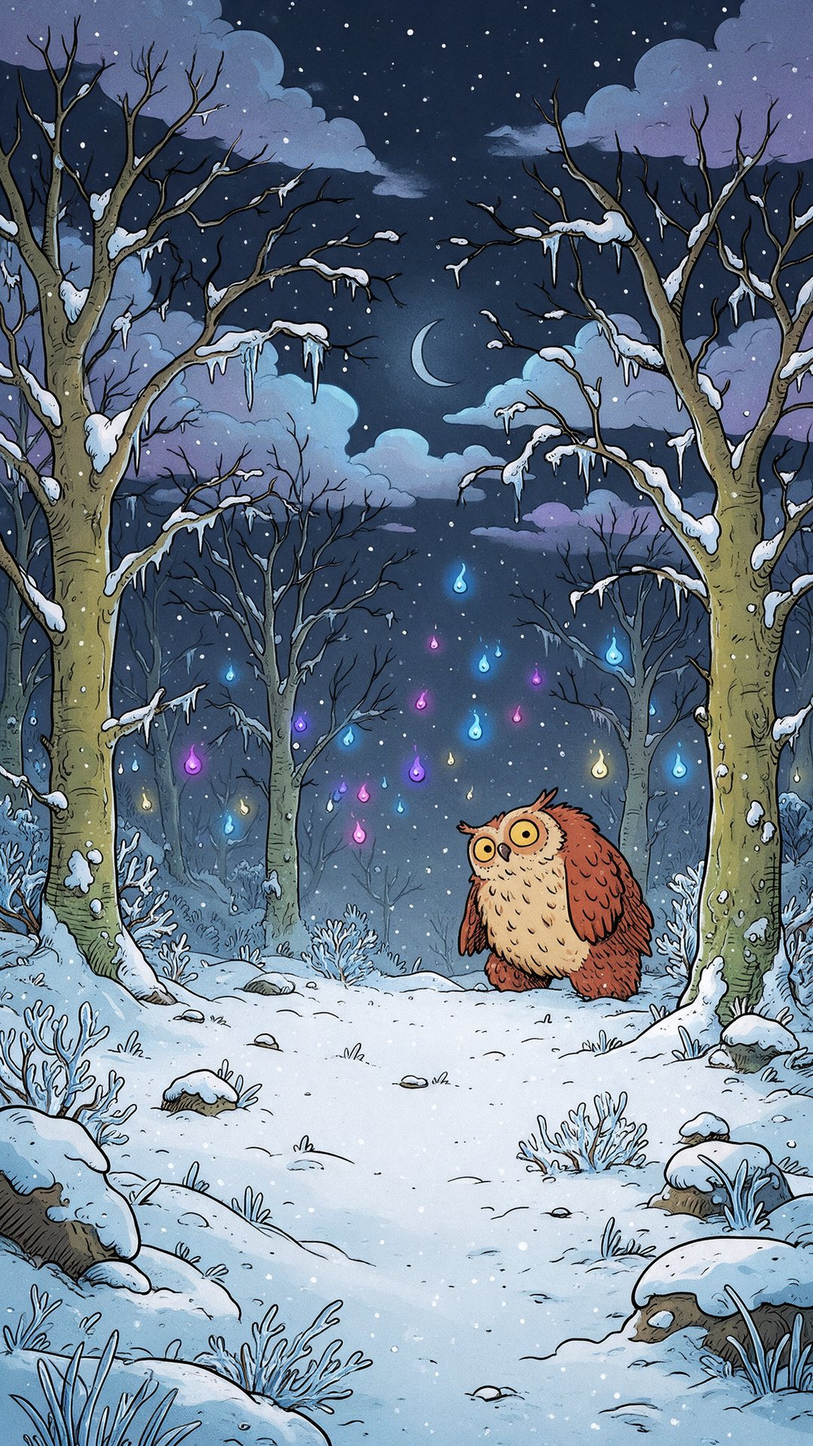
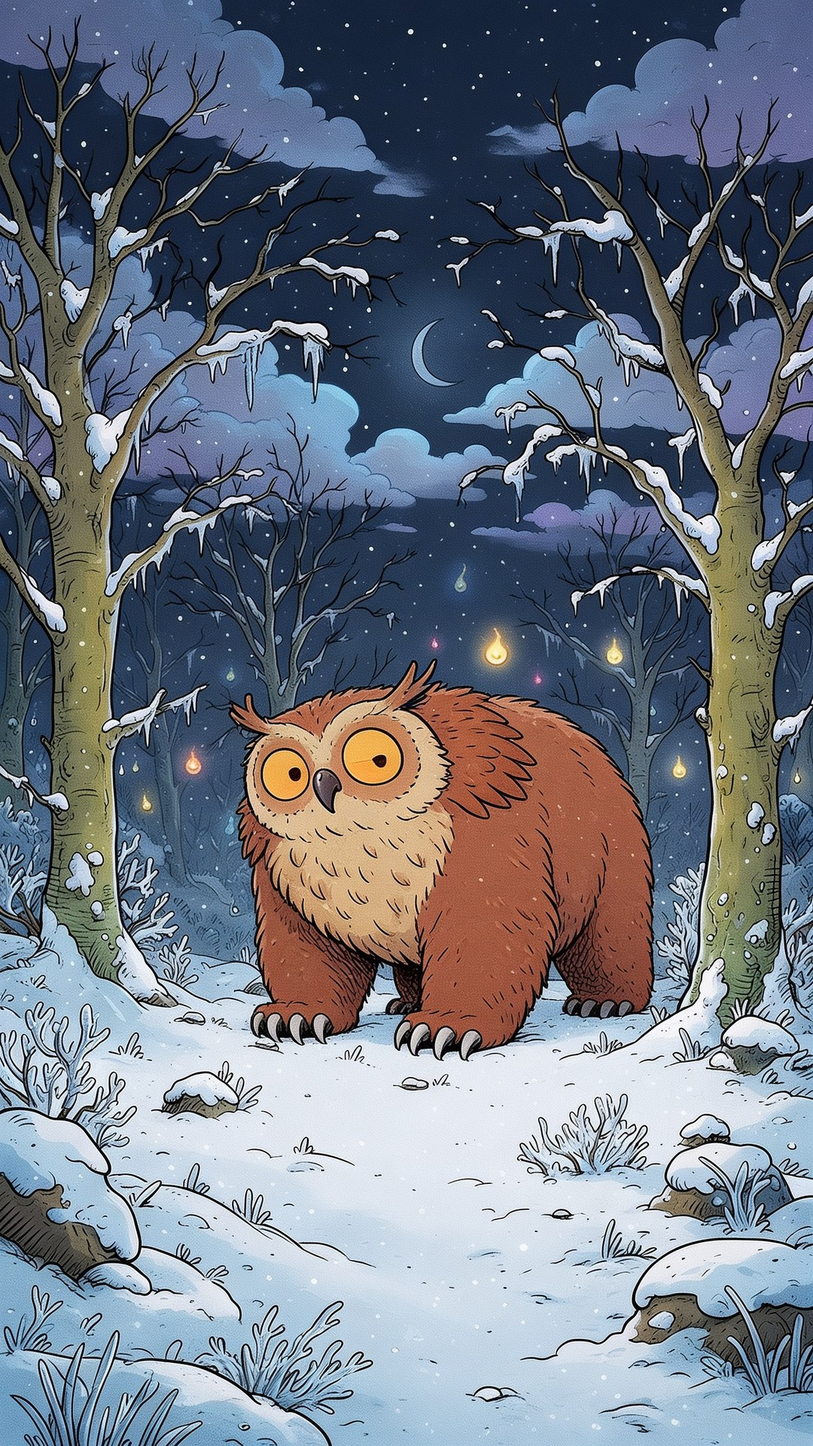
Quest 24: Eulenbaer, Pilzbild, Grumbold Herz
Claude-Session: https://claude.ai/code/session_013ksHH1RN3knNHjnsFznGtM

diff --git a/index.html b/index.html
@@ -9,7 +9,7 @@
 <meta name="robots" content="noindex">
 <link rel="preconnect" href="https://fonts.googleapis.com"><link rel="preconnect" href="https://fonts.gstatic.com" crossorigin>
 <link href="https://fonts.googleapis.com/css2?family=Grenze+Gotisch:wght@500;700;800&family=Alegreya:ital,wght@0,400;0,500;0,700;1,400&family=Alegreya+SC:wght@500;700&display=swap" rel="stylesheet">
-<link rel="stylesheet" href="style.css?v=1794148972">
+<link rel="stylesheet" href="style.css?v=1794149463">
 </head>
 <body>
 
@@ -59,25 +59,25 @@
 <div id="sheet" class="ovl sheet"></div>
 <div id="toast" class="toast"></div>
 
-<script src="gate.js?v=1794148972"></script>
-<script src="engine.js?v=1794148972"></script>
-<script src="scene.js?v=1794148972"></script>
-<script src="dice.js?v=1794148972"></script>
-<script src="items.js?v=1794148972"></script>
-<script src="battle.js?v=1794148972"></script>
-<script src="ui.js?v=1794148972"></script>
-<script src="slyr.js?v=1794148972"></script>
-<script src="games.js?v=1794148972"></script>
-<script src="bossgames.js?v=1794148972"></script>
-<script src="films.js?v=1794148972"></script>
-<script src="days1.js?v=1794148972"></script>
-<script src="days2.js?v=1794148972"></script>
-<script src="days3.js?v=1794148972"></script>
-<script src="days4.js?v=1794148972"></script>
-<script src="hero.js?v=1794148972"></script>
-<script src="qrcode.js?v=1794148972"></script>
-<script src="komplize.js?v=1794148972"></script>
-<script src="urkunde.js?v=1794148972"></script>
-<script src="main.js?v=1794148972"></script>
+<script src="gate.js?v=1794149463"></script>
+<script src="engine.js?v=1794149463"></script>
+<script src="scene.js?v=1794149463"></script>
+<script src="dice.js?v=1794149463"></script>
+<script src="items.js?v=1794149463"></script>
+<script src="battle.js?v=1794149463"></script>
+<script src="ui.js?v=1794149463"></script>
+<script src="slyr.js?v=1794149463"></script>
+<script src="games.js?v=1794149463"></script>
+<script src="bossgames.js?v=1794149463"></script>
+<script src="films.js?v=1794149463"></script>
+<script src="days1.js?v=1794149463"></script>
+<script src="days2.js?v=1794149463"></script>
+<script src="days3.js?v=1794149463"></script>
+<script src="days4.js?v=1794149463"></script>
+<script src="hero.js?v=1794149463"></script>
+<script src="qrcode.js?v=1794149463"></script>
+<script src="komplize.js?v=1794149463"></script>
+<script src="urkunde.js?v=1794149463"></script>
+<script src="main.js?v=1794149463"></script>
 </body>
 </html>
